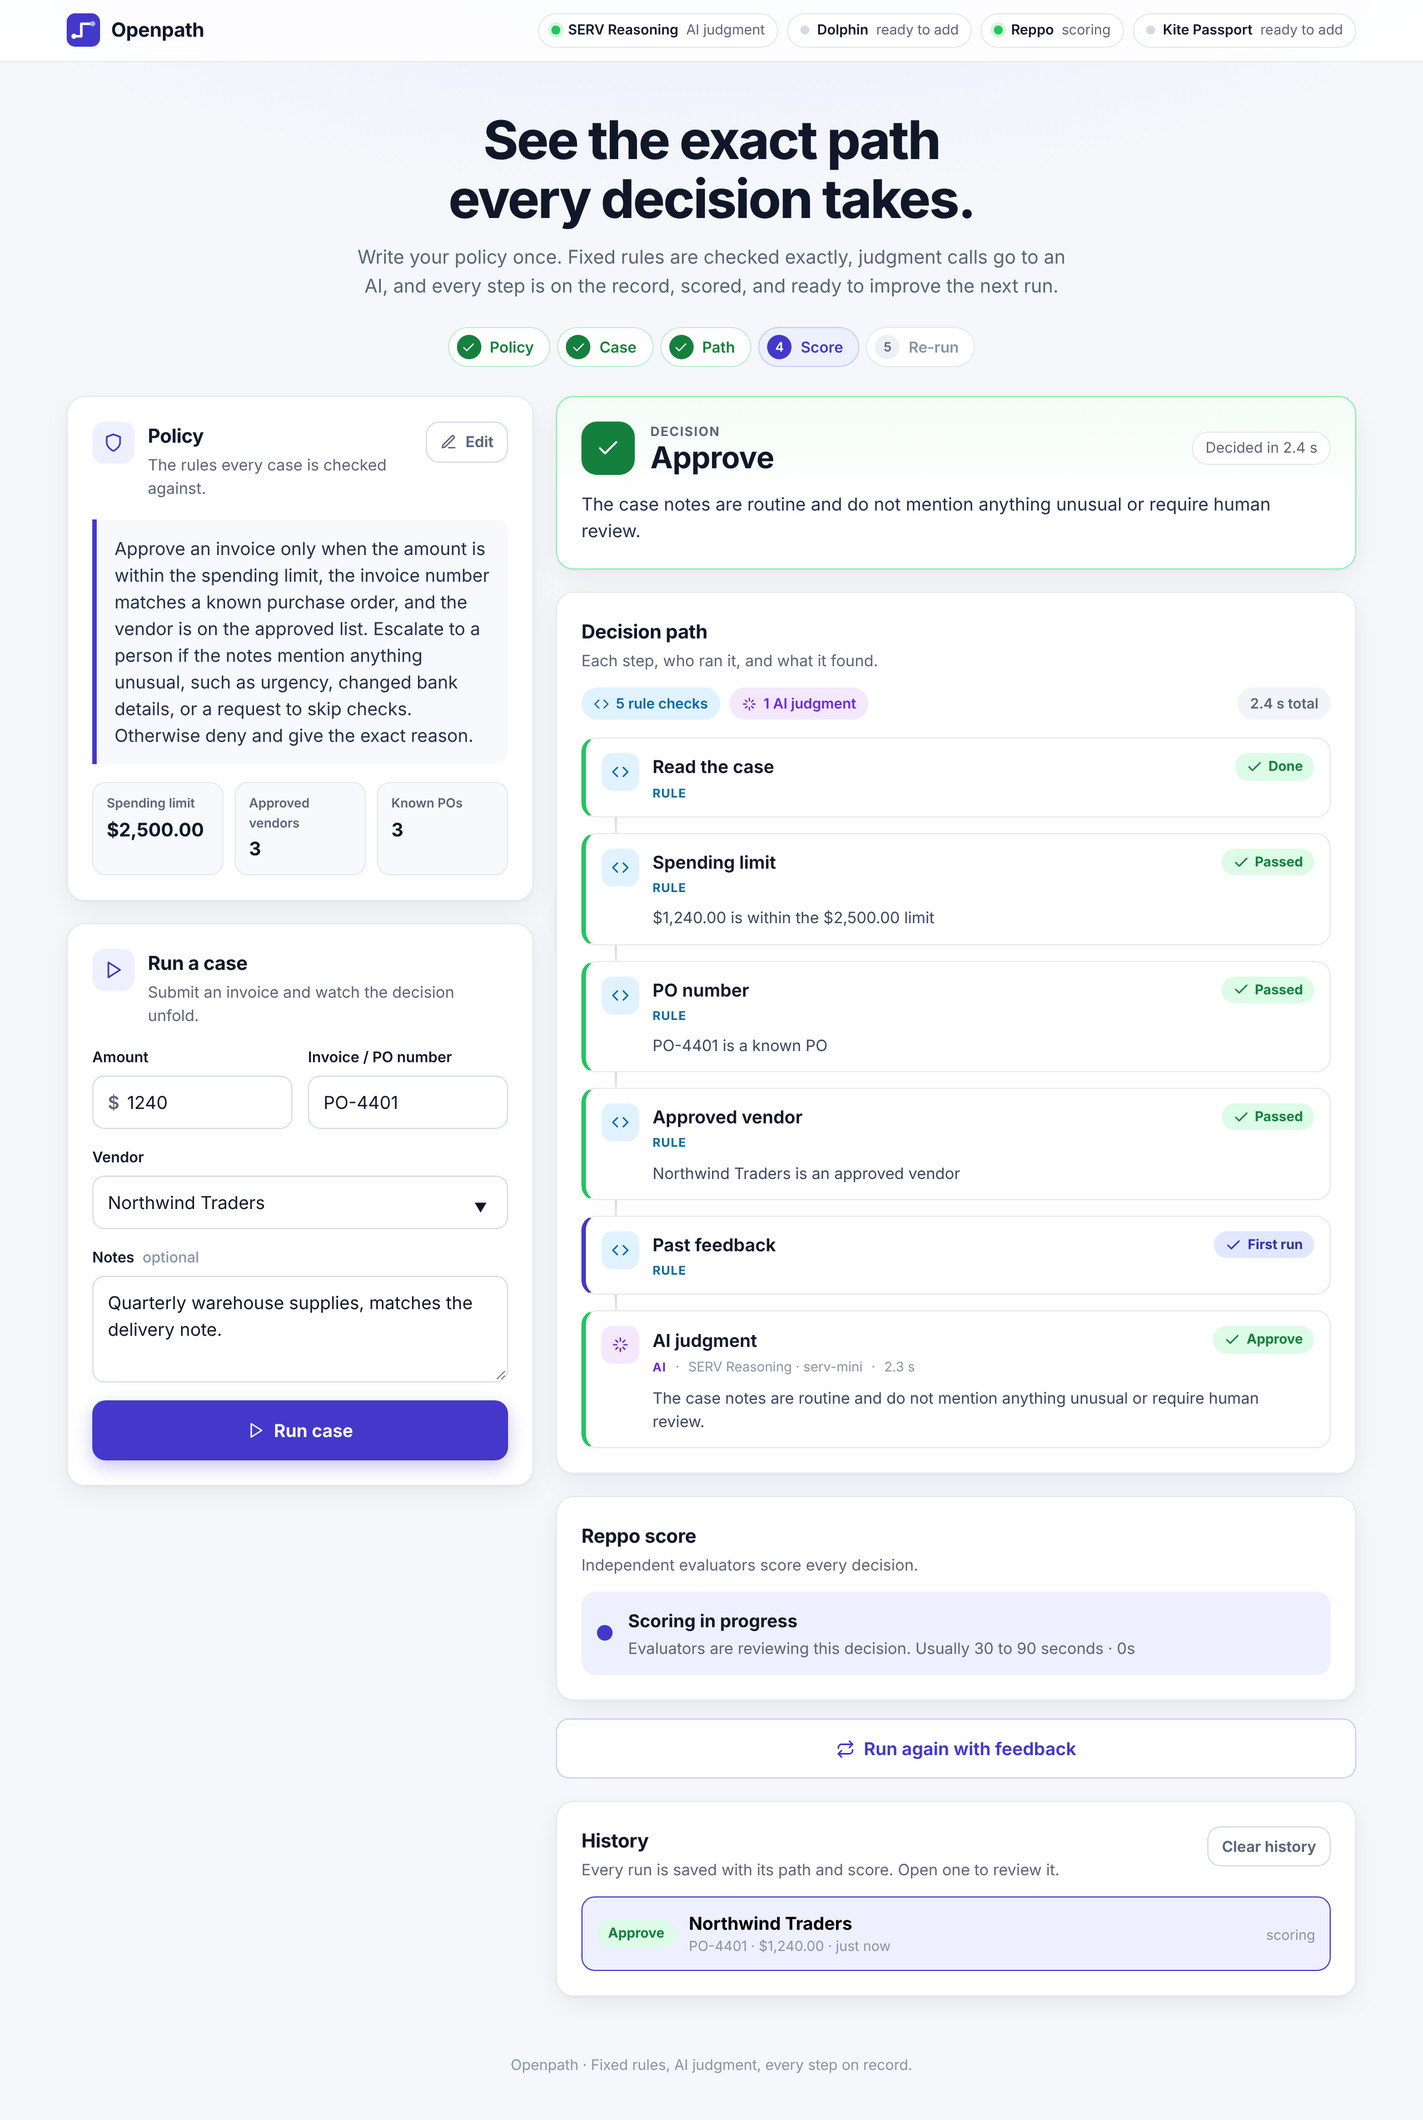
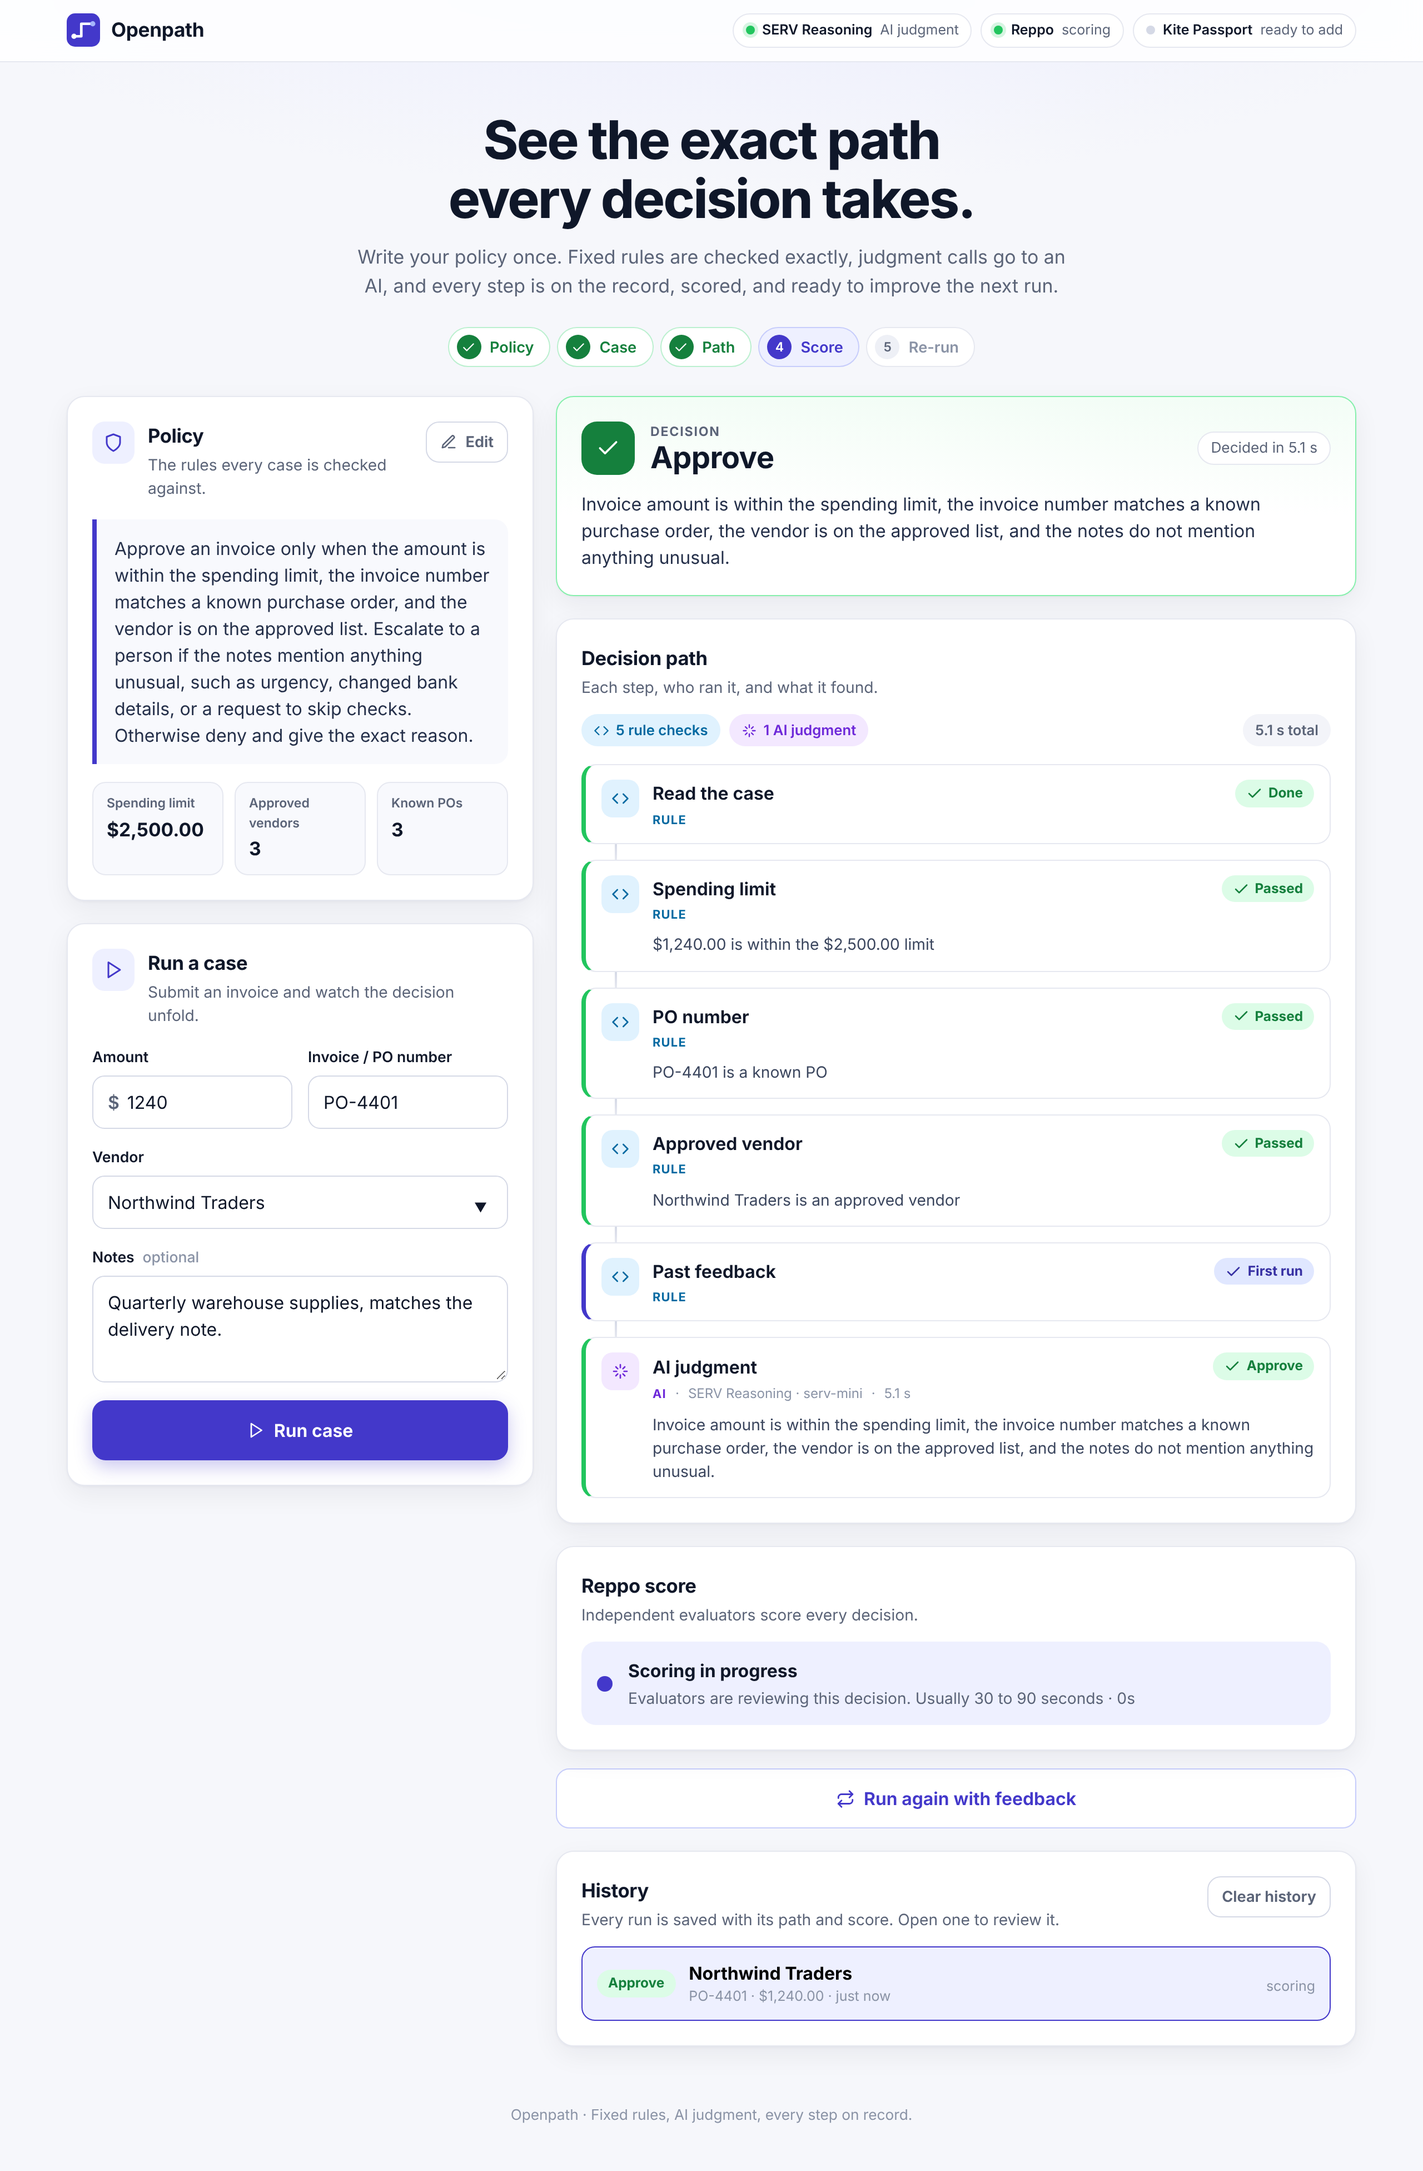
Remove Dolphin; SERV Reasoning is the single judgment provider

diff --git a/lib/judge.ts b/lib/judge.ts
@@ -1,76 +1,42 @@
 import type { Case } from "./types";
 
 const SYSTEM_PROMPT = `You are Openpath, a policy enforcement agent.
-All hard rules (limits, PO match, vendor allowlist) have already been checked by code and passed.
+The fixed rules (spending limit, PO number, approved vendor) have already been checked and passed.
 Your only job is the judgment step: read the case notes and decide whether anything
-looks suspicious or needs a human. Return only valid JSON:
+looks suspicious or needs a person. Return only valid JSON:
 { "decision": "approve" | "escalate", "reason": "string" }`;
 
-export type ModelJudgment = { decision: "approve" | "escalate"; reason: string };
-export type Judged = ModelJudgment & { provider: string; failed: string[] };
+export type Judged = { decision: "approve" | "escalate"; reason: string; provider: string };
 
-type Backend = { name: string; url: string; key?: string; model?: string };
+// Judgment step, powered by SERV Reasoning (chat completions).
+export async function judge(policy: string, c: Case, feedback?: string): Promise<Judged> {
+  const key = process.env.SERV_API_KEY;
+  const model = process.env.SERV_MODEL;
+  if (!key || !model) throw new Error("Set SERV_API_KEY and SERV_MODEL.");
 
-const dolphin = (): Backend => ({
-  name: "dolphin",
-  url: "https://lighthouse.dphn.ai/run/text-v/v1/chat/completions",
-  key: process.env.DOLPHIN_API_KEY,
-  model: process.env.DOLPHIN_MODEL,
-});
-
-const serv = (): Backend => ({
-  name: "serv",
-  url: "https://inference-api.openserv.ai/v1/chat/completions",
-  key: process.env.SERV_API_KEY,
-  model: process.env.SERV_MODEL,
-});
-
-async function call(b: Backend, policy: string, c: Case, feedback?: string): Promise<ModelJudgment> {
-  const res = await fetch(b.url, {
+  const res = await fetch("https://inference-api.openserv.ai/v1/chat/completions", {
     method: "POST",
-    headers: { "Content-Type": "application/json", Authorization: `Bearer ${b.key}` },
+    headers: { "Content-Type": "application/json", Authorization: `Bearer ${key}` },
     body: JSON.stringify({
-      model: b.model,
+      model,
       messages: [
         { role: "system", content: SYSTEM_PROMPT },
         {
           role: "user",
           content:
             `Policy: ${policy}\nCase: ${JSON.stringify(c)}` +
-            (feedback
-              ? `\nA previous run of this same case was scored. Address this feedback:\n${feedback}`
-              : ""),
+            (feedback ? `\nA previous run of this same case was scored. Address this feedback:\n${feedback}` : ""),
         },
       ],
     }),
   });
-  if (!res.ok) throw new Error(`${b.name} error ${res.status}: ${await res.text()}`);
+  if (!res.ok) throw new Error(`SERV error ${res.status}: ${(await res.text()).slice(0, 200)}`);
+
   const data = await res.json();
   const text: string = data.choices?.[0]?.message?.content ?? "";
   const json = text.match(/\{[\s\S]*\}/)?.[0];
-  if (!json) throw new Error(`${b.name} returned no JSON`);
-  const out = JSON.parse(json) as ModelJudgment;
-  if (out.decision !== "approve" && out.decision !== "escalate") {
-    throw new Error(`${b.name} returned an invalid decision`);
-  }
-  return out;
-}
-
-// Judgment node. SERV Reasoning answers by default. Dolphin (open models) is the second choice,
-// or the first one when JUDGE_PROVIDER=dolphin.
-export async function judge(policy: string, c: Case, feedback?: string): Promise<Judged> {
-  const order = [serv(), dolphin()].filter((b) => b.key && b.model);
-  if (process.env.JUDGE_PROVIDER === "dolphin") order.sort((a) => (a.name === "dolphin" ? -1 : 1));
-  if (order.length === 0) throw new Error("Set SERV_API_KEY and SERV_MODEL (or DOLPHIN_API_KEY and DOLPHIN_MODEL).");
-
-  const errors: string[] = [];
-  for (const b of order) {
-    try {
-      const out = await call(b, policy, c, feedback);
-      return { ...out, provider: `${b.name} (${b.model})`, failed: errors };
-    } catch (e) {
-      errors.push(String(e).replace(/^Error: /, "").slice(0, 200));
-    }
-  }
-  throw new Error(errors.join(" | "));
+  if (!json) throw new Error("SERV returned no JSON");
+  const out = JSON.parse(json) as { decision: string; reason: string };
+  if (out.decision !== "approve" && out.decision !== "escalate") throw new Error("SERV returned an invalid decision");
+  return { decision: out.decision, reason: out.reason, provider: `serv (${model})` };
 }

diff --git a/app/globals.css b/app/globals.css
@@ -167,7 +167,7 @@ textarea { resize: vertical; }
 .provider { font-size: 0.75rem; color: var(--faint); }
 .provider::before { content: "·"; margin-right: 8px; }
 .node-detail { margin-top: 8px; font-size: 0.88rem; color: #3b465e; }
-.node-note { margin-top: 6px; font-size: 0.78rem; color: var(--faint); }
+
 .link { width: 2px; height: 14px; background: linear-gradient(var(--line-strong), var(--line)); margin-left: 30px; animation: grow 0.3s both; transform-origin: top; }
 .pill { display: inline-flex; align-items: center; gap: 5px; font-size: 0.76rem; font-weight: 700; padding: 3px 10px; border-radius: 999px; }
 .pill.pass { background: var(--pass-bg); color: var(--pass); } .pill.fail { background: var(--fail-bg); color: var(--fail); }

diff --git a/lib/format.ts b/lib/format.ts
@@ -48,7 +48,7 @@ export const routeLabel = (r: string) => ROUTE_LABELS[r] ?? cap(r);
 const VERDICT_LABELS: Record<string, string> = { accept: "Accepted", reject: "Rejected" };
 export const verdictLabel = (v: string) => VERDICT_LABELS[v] ?? cap(v);
 
-const PROVIDER_NAMES: Record<string, string> = { serv: "SERV Reasoning", dolphin: "Dolphin" };
+const PROVIDER_NAMES: Record<string, string> = { serv: "SERV Reasoning" };
 // "serv (serv-mini)" -> "SERV Reasoning · serv-mini"
 export function providerLabel(p: string) {
   const m = p.match(/^(\w+) \((.+)\)$/);

diff --git a/app/components/PathGraph.tsx b/app/components/PathGraph.tsx
@@ -68,7 +68,6 @@ export default function PathGraph({ path, ms }: { path: Step[]; ms?: number }) {
                     {s.ms !== undefined && <span className="provider">{duration(s.ms)}</span>}
                   </div>
                   {s.detail && <p className="node-detail">{s.detail}</p>}
-                  {s.fallbacks?.map((f, k) => <p className="node-note" key={k}>Tried first: {f}</p>)}
                 </div>
               </div>
               {i < path.length - 1 && <div className="link" style={{ animationDelay: `${i * 90 + 60}ms` }} />}

diff --git a/app/components/Integrations.tsx b/app/components/Integrations.tsx
@@ -1,8 +1,7 @@
-export type Status = { serv: boolean; dolphin: boolean; reppo: boolean; kite: boolean };
+export type Status = { serv: boolean; reppo: boolean; kite: boolean };
 
 const ITEMS: { key: keyof Status; name: string; role: string }[] = [
   { key: "serv", name: "SERV Reasoning", role: "AI judgment" },
-  { key: "dolphin", name: "Dolphin", role: "open AI models" },
   { key: "reppo", name: "Reppo", role: "scoring" },
   { key: "kite", name: "Kite Passport", role: "identity and limits" },
 ];

diff --git a/app/api/decide/route.ts b/app/api/decide/route.ts
@@ -65,7 +65,6 @@ export async function POST(req: Request) {
       result: j.decision,
       detail: j.reason,
       provider: j.provider,
-      fallbacks: j.failed.length ? j.failed : undefined,
       ms: Date.now() - t,
     });
     const out: Decision = { decision: j.decision, reason: j.reason, path, ms: Date.now() - started };

diff --git a/lib/types.ts b/lib/types.ts
@@ -11,7 +11,6 @@ export type Step = {
   result: string;
   detail?: string;
   provider?: string; // which model answered a model step
-  fallbacks?: string[]; // providers asked earlier, with the reason each passed the step on
   ms?: number; // how long the step took
 };
 

diff --git a/app/api/status/route.ts b/app/api/status/route.ts
@@ -5,7 +5,6 @@ export async function GET() {
   const e = process.env;
   return NextResponse.json({
     serv: !!(e.SERV_API_KEY && e.SERV_MODEL),
-    dolphin: !!(e.DOLPHIN_API_KEY && e.DOLPHIN_MODEL),
     reppo: !!e.REPPO_API_KEY,
     kite: !!e.KPASS_BIN,
   });

diff --git a/README.md b/README.md
@@ -38,7 +38,7 @@ Openpath is a console for AI decisions. You describe a policy in plain words, se
 1. **Write a policy.** Plain words for the AI, plus an exact spending limit, approved vendors and known PO numbers.
 2. **Run a case.** Enter an amount, vendor, PO number and notes.
 3. **Fixed rules run first.** If a rule decides the case, the decision is made right there and the AI step is skipped.
-4. **SERV Reasoning judges the rest.** Dolphin open models are ready as a second choice, or can go first with one setting.
+4. **SERV Reasoning judges the rest.** It reads the notes against your policy and answers approve or escalate, with a plain reason.
 5. **See the decision and its path.** Approve, deny or escalate, with a plain reason.
 6. **Reppo scores it.** Usually within 30 to 90 seconds.
 7. **Run it again.** The saved feedback joins the next run, and the console shows how the score changed.
@@ -73,7 +73,6 @@ When a rule decides a case, the AI step is skipped and the path says exactly why
 | Partner | Role in Openpath |
 |---|---|
 | **SERV Reasoning** (OpenServ) | The core of Openpath. Every AI judgment runs on SERV Reasoning, using any chat model from the SERV catalog. |
-| **Dolphin** | Open AI models for the judgment step. Joins as the second choice when `DOLPHIN_API_KEY` and `DOLPHIN_MODEL` are set. |
 | **Reppo** | Scores every decision. Scores and critiques are saved and used on the next run. |
 | **Kite Passport** | Adds identity and session spending-limit checks to the path once `kpass` is connected. |
 
@@ -94,7 +93,6 @@ Open the console, write your first policy, and run a case.
 | Service | Where to get it |
 |---|---|
 | SERV | [console.openserv.ai](https://console.openserv.ai). List chat models with `GET https://inference-api.openserv.ai/v1/models`. |
-| Dolphin | [app.dphn.ai](https://app.dphn.ai): verify your wallet, redeem credits, then **API Keys → Create Key**. List models with `GET https://lighthouse.dphn.ai/run/text-v/v1/models`. |
 | Reppo | [eval.reppo.xyz](https://eval.reppo.xyz): sign in, then **API Key → Generate**. |
 
 ## Configuration
@@ -102,8 +100,6 @@ Open the console, write your first policy, and run a case.
 | Variable | Purpose |
 |---|---|
 | `SERV_API_KEY`, `SERV_MODEL` | Your SERV key and the model to use, for example `serv-mini`. |
-| `DOLPHIN_API_KEY`, `DOLPHIN_MODEL` | Optional. Adds Dolphin open models as the second choice for the judgment step. |
-| `JUDGE_PROVIDER` | Set to `dolphin` to try Dolphin before SERV. |
 | `REPPO_API_KEY` | Enables scoring and the feedback loop. |
 | `KPASS_BIN` | Optional. Where `kpass` is installed, to add Kite Passport checks. |
 | `OPENPATH_DATA_DIR` | Where your policy and history are saved. Defaults to `.data` in the project. |
@@ -131,7 +127,7 @@ Then set `KPASS_BIN` to the `kpass` path. Every case now includes two steps:
 
 1. Create a service from this repository.
 2. Add a **volume** and mount it at `/data`.
-3. Set the variables: `OPENPATH_DATA_DIR=/data`, `SERV_API_KEY`, `SERV_MODEL`, `REPPO_API_KEY`, and optionally `DOLPHIN_API_KEY` and `DOLPHIN_MODEL`.
+3. Set the variables: `OPENPATH_DATA_DIR=/data`, `SERV_API_KEY`, `SERV_MODEL`, `REPPO_API_KEY`.
 4. Deploy. Railway sets `PORT`, and `npm start` uses it.
 
 The volume keeps your policy, history and scores across deploys.
@@ -143,7 +139,7 @@ The volume keeps your policy, history and scores across deploys.
 
 ## Built for SERV Hackathon Edition 02
 
-Tracks: **Kite**, **Reppo**, **Open**, with **Dolphin** as the open-model backend.
+Tracks: **Kite**, **Reppo** and **Open**.
 [Submission form](https://openserv.typeform.com/submissions02)
 
 ## Author

diff --git a/docs/AGENT_PROMPT.md b/docs/AGENT_PROMPT.md
@@ -16,7 +16,7 @@ A console where anyone writes a policy, runs a case, and sees the exact path the
 1. Save a policy: plain-language text, a spending limit, approved vendors, known PO numbers.
 2. Submit a case: amount, vendor, invoice number, notes.
 3. Hard rules run as code. A rule that decides the case skips the model step.
-4. The judgment step runs through Dolphin or SERV Reasoning and returns structured JSON.
+4. The judgment step runs on SERV Reasoning and returns structured JSON.
 5. Kite Passport identity and session limits join the path when connected.
 6. The decision and path are shown and saved.
 7. Reppo scores the decision, and the score is stored and shown.
@@ -24,12 +24,11 @@ A console where anyone writes a policy, runs a case, and sees the exact path the
 
 ## Stack
 - Next.js (App Router) and TypeScript, with plain CSS
-- Server routes for SERV, Dolphin, Reppo and Kite calls
+- Server routes for SERV, Reppo and Kite calls
 - Environment variables for every key and model id
 
 ## Integrations
 - **SERV Reasoning:** the core of the judgment step. `https://inference-api.openserv.ai/v1/chat/completions`, Bearer auth, a system prompt on every request.
-- **Dolphin:** `https://lighthouse.dphn.ai/run/text-v/v1/chat/completions`, OpenAI-compatible, the second choice for the judgment step (first with `JUDGE_PROVIDER=dolphin`).
 - **Reppo:** `https://eval.reppo.xyz/api/v1/agents/evals`, follow https://eval.reppo.xyz/agents.md.
 - **Kite Passport:** the `kpass` CLI with `--output json --no-interactive`.
 

diff --git a/docs/SUBMISSION.md b/docs/SUBMISSION.md
@@ -4,7 +4,7 @@
 Openpath
 
 ## Tracks
-Kite, Reppo, Open, with Dolphin as the open-model backend for judgment steps.
+Kite, Reppo and Open.
 
 ## What it does
 Openpath is a console where anyone writes a policy for an AI agent and sees the exact path every decision takes. Hard rules and spending limits run as code. The judgment step calls a model only where judgment is needed. The full path is visible, the outcome is scored by independent evaluators, and the score and critique shape the next run of the same case.
@@ -15,7 +15,6 @@ SERV Reasoning powers the judgment step. After the code checks clear a case, the
 ## Partner usage
 - **Kite:** the `kpass` CLI adds identity, per-transaction limit, remaining session budget and expiry checks to the path.
 - **Reppo:** every decision is submitted to the Evaluation API. The score, route, reason and rubric scores are stored and used on the next run of the same case, and the console shows the score change.
-- **Dolphin:** open-model inference as an optional second choice for the judgment step, switchable to first with one setting.
 
 ## Real data throughout
 Policy text, spending limit, vendors and PO numbers come from the user. Scores come from Reppo. Decisions come from live model calls. History is stored on disk.

diff --git a/docs/PRJ.md b/docs/PRJ.md
@@ -4,7 +4,7 @@
 **Organizer:** OpenServ ([@openservai](https://x.com/openservai))
 **Deadline:** November 15, 2026, 23:59 UTC
 **Prize pool:** $5,000
-**Tracks:** Kite, Reppo, Open, with Dolphin as the open-model backend
+**Tracks:** Kite, Reppo, Open
 
 ## In one line
 Openpath is a console where anyone writes a policy for an AI agent, runs a case through it, and sees the exact path the decision took, with exact limits enforced every time, AI judgment where judgment is needed, and a feedback score that shapes the next run.
@@ -13,7 +13,7 @@ Openpath is a console where anyone writes a policy for an AI agent, runs a case 
 1. Write a policy: plain words for the AI, plus an exact spending limit, approved vendors and known PO numbers.
 2. Submit a case: amount, vendor, invoice or PO number, and notes.
 3. Fixed rules run first. If a rule decides the case, the AI step is skipped.
-4. The judgment step runs on SERV Reasoning, with Dolphin open models available as a second choice.
+4. The judgment step runs on SERV Reasoning.
 5. Kite Passport identity and session limits join the path when the `kpass` CLI is connected.
 6. The console shows the decision and the full path.
 7. Reppo's Evaluation API scores the decision. The score and critique are stored.
